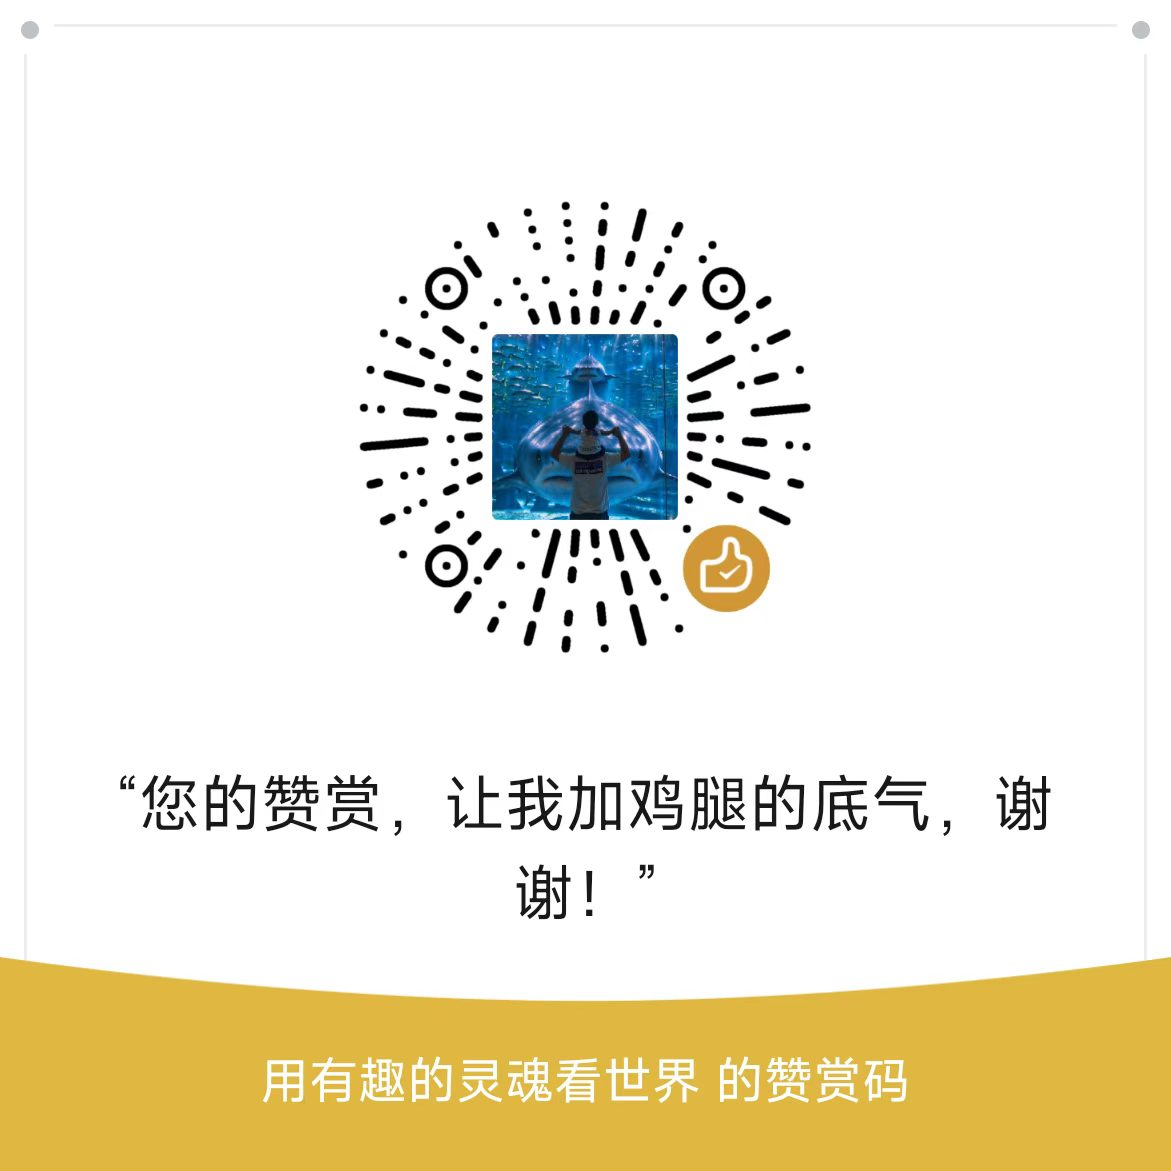
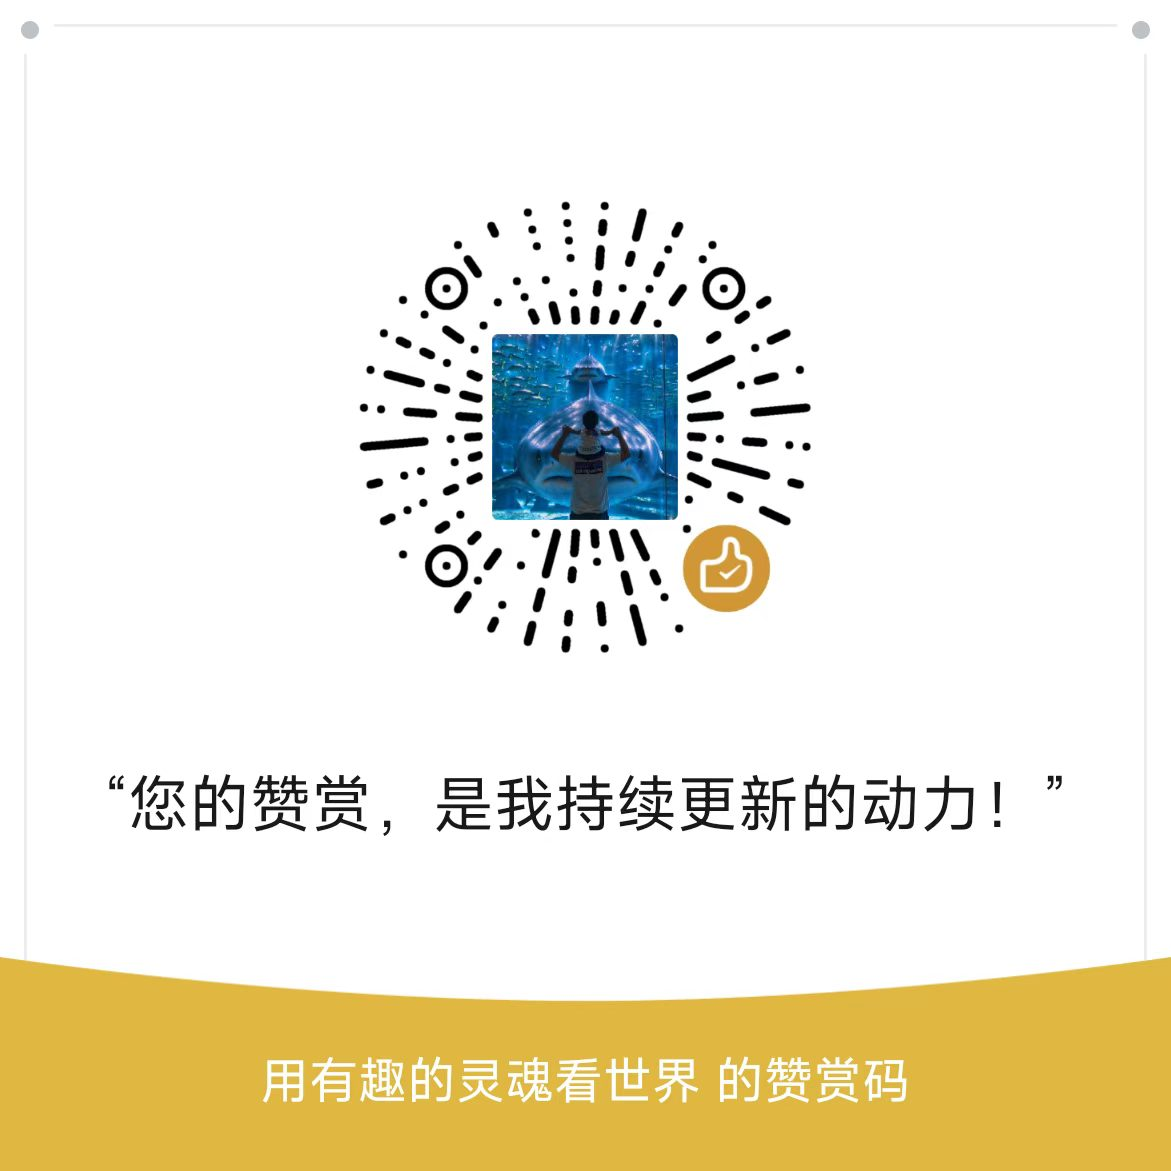
docs: 更新微信赞赏码，捐赠区改回表格样式

Changed region(s): [[0.3689, 0.6456, 0.9223, 0.7071], [0.0922, 0.6456, 0.3382, 0.7071], [0.4304, 0.7378, 0.5226, 0.7993]]

diff --git a/README.md b/README.md
@@ -172,13 +172,11 @@ services:
 
 ## 捐赠
 
-如果这个项目帮你省了流量、省了心，欢迎请作者喝杯咖啡 ☕
+如果这个项目对你有帮助，欢迎请我喝杯咖啡：
 
-<p align="center">
-  <img src="./assets/donate-wechat.jpg" alt="微信赞赏码" width="260">
-  <br>
-  <sub>微信扫码赞赏 · 感谢支持</sub>
-</p>
+| 微信支付 |
+| :---: |
+| <img src="./assets/donate-wechat.jpg" alt="微信赞赏码" width="240"> |
 
 ## 许可证
 
